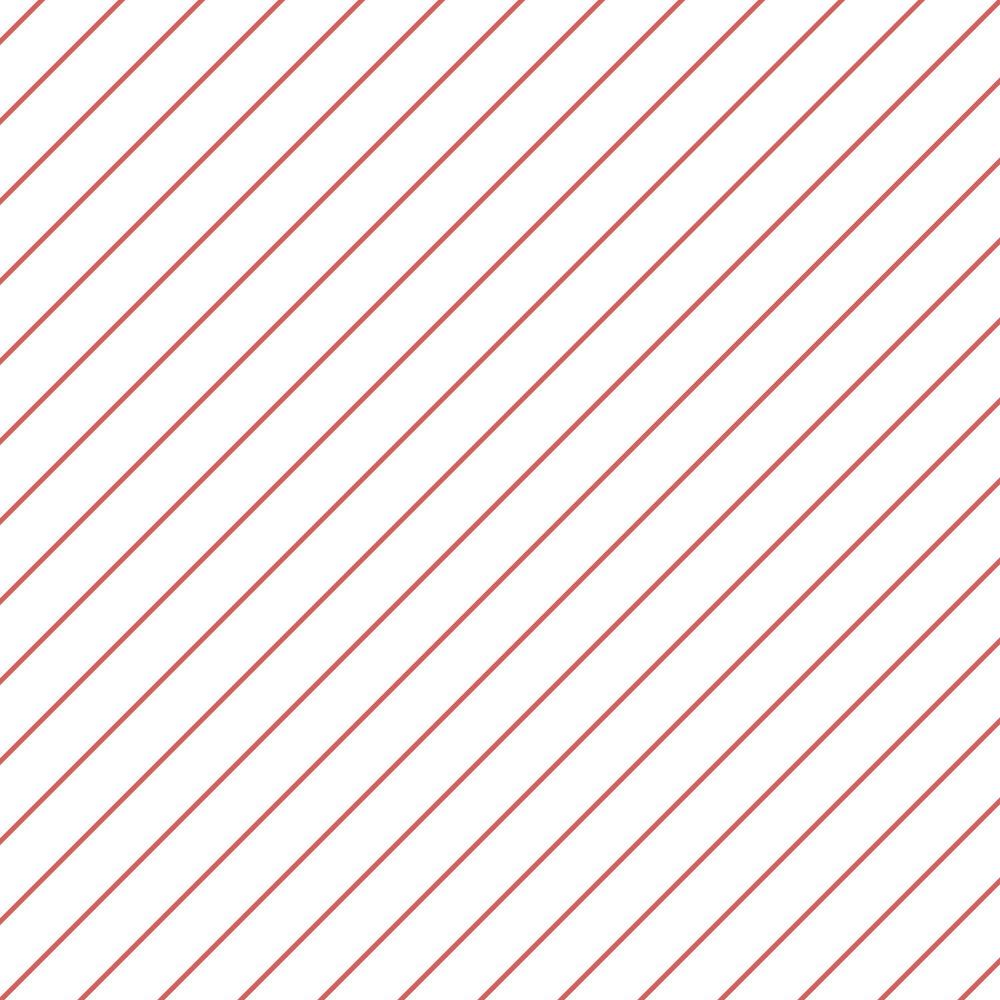
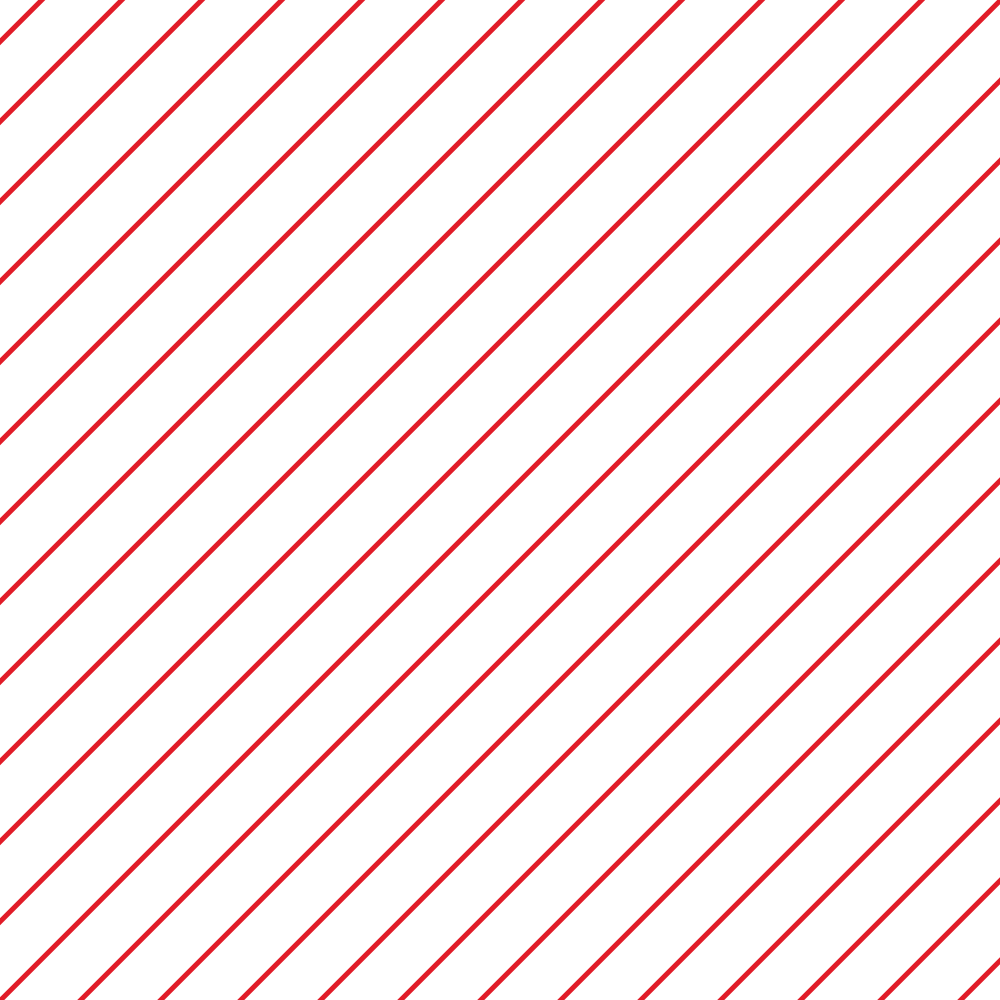
oiefj

diff --git a/css/style.css b/css/style.css
@@ -1,19 +1,10 @@
 @import url(https://fonts.googleapis.com/css?family=Libre+Baskerville:400,400italic,700|Open+Sans:400,300,600,700);
 
-@font-face {
-    font-family: 'Gentium';
-    src: url('fonts/genbasr-webfont.woff2') format('woff2'),
-         url('fonts/genbasr-webfont.woff') format('woff');
-    font-weight: normal;
-    font-style: normal;
-
-}
-
 /* GENERAL */
 
 body {
 	overflow-x: hidden;
-    background-image: url("img/sedona.jpg");
+    background-image: url("img/pattern.png");
     background-repeat: repeat;
 }
 
@@ -115,8 +106,8 @@ h5 {
 .home-punchline h1 {
 	margin-bottom: 0px;
 	margin-top: 0px;
-	font-family: 'Gentium', Times, serif; 
-	font-size: 18px;
+	font-family: 'Libre Baskerville', Times, serif; 
+	font-size: 14px;
 	letter-spacing: 1px;
 	font-weight: 700;
 }
@@ -136,7 +127,7 @@ h5 {
 
 .home-welcome form input:focus {
 	outline: none;
-	color: rgba(255, 106, 0, 0.9);
+	color: rgba(225, 28, 40, 0.8);
 }
 
 .agent-id, .agent-password {
@@ -148,11 +139,11 @@ h5 {
 	margin-right: auto;
 	text-align: center;
 	border-bottom: 3px solid rgba(0, 0, 0, 0.7);
-	color: rgba(255, 106, 0, 0.7);
+	color: rgba(225, 28, 40, 0.8);
 }
 
 .agent-id:hover, .agent-password:hover {
-	color: rgba(255, 106, 0, 0.9);
+	color: rgba(225, 28, 40, 1);
 }
 
 .home-access {
@@ -164,12 +155,12 @@ h5 {
 	margin-left: auto;
 	margin-top: 30px;
 	margin-bottom: 30px;
-	background-color: rgba(255, 106, 0, 0.7);
+	border: 3px solid rgba(225, 28, 40, 0.8);
 	text-align: center;
 }
 
 .home-access:hover {
-	background-color: rgba(255, 106, 0, 0.9);
+	background-color: rgba(225, 28, 40, 1);
 }
 
 .home-access input{
@@ -249,25 +240,7 @@ h5 {
 	position: absolute;
 	height: 100%;
 	width: 100%;
-}
-
-.dashboard-background {
-	position: fixed;
-	width: 100%;
-	height: 100%;
-	padding: 0;
-	margin: 0;
-}
-
-.dashboard-background-img {
-	height: 100%;
-	width: 100%;
-}
-
-.dashboard-background-img>div {
-	height: 100%;
-	background: no-repeat center center;
-	background-size: cover;
+	padding-top: 10%;
 }
 
 .dashboard .row, .dashboard .clearfix {
@@ -275,9 +248,8 @@ h5 {
 	margin: 0;
 	margin-right: auto;
 	margin-left: auto;
-	margin-top: 75px;
-	margin-bottom: 75px;
 	height: 1500px;
+	margin-bottom: 10%;
 }
 
 .dashboard .puzzle {
@@ -298,11 +270,12 @@ h5 {
 
 .puzzle-1 .logo {
 	position: absolute;
-	height: 150px;
-	width: 150px;
+	height: 125px;
+	width: 125px;
 	z-index: 1000;
 	top: 0;
-	margin-left: 15px;
+	margin-left: 25px;
+	margin-top: 25px;
 }
 
 .dashboard .bouton {
@@ -314,15 +287,14 @@ h5 {
 .puzzle-2 .bouton .bouton-valider {
 	height: 92.5px;
 	width: 187.5px;
-	padding: 15px;
+	padding: 20px;
 	margin-top: 31.5px;
 }
 
 .puzzle-2 .bouton-solid {
 	width: 100%;
 	height: 100%;
-	border-top: 5px solid rgba(192, 44, 39, 0.5);
-	border-bottom: 5px solid rgba(192, 44, 39, 0.5);
+	border: 2px solid rgba(225, 28, 40, 0.8);
 }
 
 .dashboard h1, .dashboard h2 {
@@ -331,16 +303,16 @@ h5 {
 	font-family: 'Open Sans', Helvetica, sans-serif;
 	letter-spacing: 3px;
 	text-transform: uppercase;
-	font-size: 14px;
+	font-size: 12px;
 	text-align: center;
 	font-weight: 600;
-	margin-top: 10px;
+	margin-top: 11px;
 }
 
 .puzzle-2 .bouton .bouton-indices {
 	height: 92.5px;
 	width: 187.5px;
-	padding: 15px;
+	padding: 20px;
 	margin-top: 122.5px;
 	margin-left: 62.5px;
 }
@@ -353,11 +325,12 @@ h5 {
 }
 
 .puzzle-3 .bouton-chrono p {
-	font-family: 'Open Sans', Helvetica, sans-serif;
+	font-family: 'Libre Baskerville', Times, serif;
 	text-align: center;
-	letter-spacing: 3px;
-	color: rgba(192, 44, 39, 0.75);
-	font-size: 30px;
+	letter-spacing: 2px;
+	color: rgba(225, 28, 40, 0.8);
+	font-size: 24px;
+	margin-top: 10px;
 }
 
 .puzzle-3 .bouton-id {
@@ -384,15 +357,18 @@ h5 {
 }
 
 .puzzle-4 .bouton-bienvenue p {
-	text-align: right;
+	text-align: center;
 	font-family: 'Libre Baskerville', Times, serif;
-	font-size: 14px;
+	font-size: 12px;
 	color: rgba(0, 0, 0, 0.7);
 	font-weight: 700;
+	text-transform: uppercase;
+	letter-spacing: 2px;
+	margin-top: 2px;
 }
 
 .puzzle-4 .bouton-bienvenue p strong {
-	color: rgba(192, 44, 39, 0.75);
+	color: rgba(225, 28, 40, 0.8);
 }
 
 .puzzle-4 .bouton-mtsptk {
@@ -411,6 +387,7 @@ h5 {
 	text-align: center;
 	font-family: 'Libre Baskerville', Times, serif;
 	margin-top: 10px;
+	color: rgba(225, 28, 40, 0.8)
 }
 
 .puzzle-4 .bouton-mtsptk .jauge {
@@ -423,15 +400,30 @@ h5 {
 	background-size: cover;
 }
 
+.puzzle-4 .bouton-legende-mtsptk {
+	width: 100%;
+	height: 62.5px;
+	margin-top: 125px;
+}
+
+.puzzle-4 .bouton-legende-mtsptk p {
+	font-family: 'Libre Baskerville', Times, serif;
+	font-size: 12px;
+	text-align: right;
+	text-transform: uppercase;
+	letter-spacing: 2px;
+}
+
 .puzzle-5 .bouton-carte {
 	top: 0;
 	height: 187.5px;
 	width: 187.5px;
-	padding: 10px;
+	padding: 20px;
 }
 
 .puzzle-5 .bouton-carte .carte {
 	border-radius: 100%;
+	border: 2px solid rgba(0, 0, 0, 0.7);
 	height: 100%;
 	width: 100%;
 	background: no-repeat center center;
@@ -447,16 +439,18 @@ h5 {
 }
 
 .puzzle-5 .bouton-statut-partenaire p {
-	text-align: left;
+	text-align: center;
 	font-family: 'Libre Baskerville', Times, serif;
-	font-size: 14px;
-	margin-top: 10px;
+	font-size: 12px;
+	margin-top: 6px;
 	font-weight: 700;
-	margin-right: 35px;
+	margin-right: 50px;
+	text-transform: uppercase;
+	letter-spacing: 2px;
 }
 
 .puzzle-5 .bouton-statut-partenaire p strong {
-	color: rgba(192, 44, 39, 0.75);	
+	color: rgba(225, 28, 40, 0.8);	
 }
 
 .puzzle-5 .icone-statut-partenaire {
@@ -464,6 +458,8 @@ h5 {
 	height: 40px;
 	background: no-repeat center center;
 	background-size: cover;
+	margin-top: 2px;
+	margin-left: -38px;
 }
 
 .puzzle-6 .bouton-report {
@@ -474,11 +470,13 @@ h5 {
 
 .puzzle-6 .bouton-report p {
 	font-family: 'Libre Baskerville', Times, serif;
-	font-size: 10px;
+	font-size: 8px;
 	font-weight: 400;
 	color: rgba(0, 0, 0, 0.7);
 	text-align: center;
 	margin-top: 15px;
+	text-transform: uppercase;
+	letter-spacing: 2px;
 }
 
 /* RESPONSIVE : TABLETTE */
@@ -487,6 +485,7 @@ h5 {
 
 .dashboard .row, .dashboard .clearfix {
 	width: 600px;
+	height: 900px;
 }
 
 .dashboard .puzzle {
@@ -494,8 +493,10 @@ h5 {
 }
 
 .puzzle-1 .logo {
-	height: 175px;
-	width: 175px;
+	height: 125px;
+	width: 125px;
+	margin-left: 50px;
+	margin-top: 50px;
 }
 
 .puzzle-2 .bouton .bouton-valider {
@@ -575,8 +576,18 @@ h5 {
 
 .dashboard .row, .dashboard .clearfix {
 	width: 900px;
+	height: 600px;
 }
+
 .puzzle-4 .bouton-bienvenue p {
 	text-align: right;
+}
+
+.dashboard {
+	padding-top: 7.5%;
+}
+
+.dashboard .row, .dashboard .clearfix {
+	margin-bottom: 5%;
 }
 }

diff --git a/dashboard/front.php b/dashboard/front.php
@@ -77,6 +77,10 @@
 				<div class="jauge" style="background-image: url('<?php echo $url ?>dashboard/img/rayures.png')"></div>
 			</div>
 
+			<div class="bouton bouton-legende-mtsptk">
+				<p>(jauge MTSPTK)</p>
+			</div>
+
 		</div>
 
 		<div class="col-sm-6 col-md-4 puzzle puzzle-5">

diff --git a/dashboard/index.php b/dashboard/index.php
@@ -2,8 +2,7 @@
 
 <?php include $route.'/assets/header.php' ?>
 <body>
-
-<?php include $route.'/dashboard/background.php' ?>
+	
 <?php include $route.'/dashboard/front.php' ?>
 
 </body>
